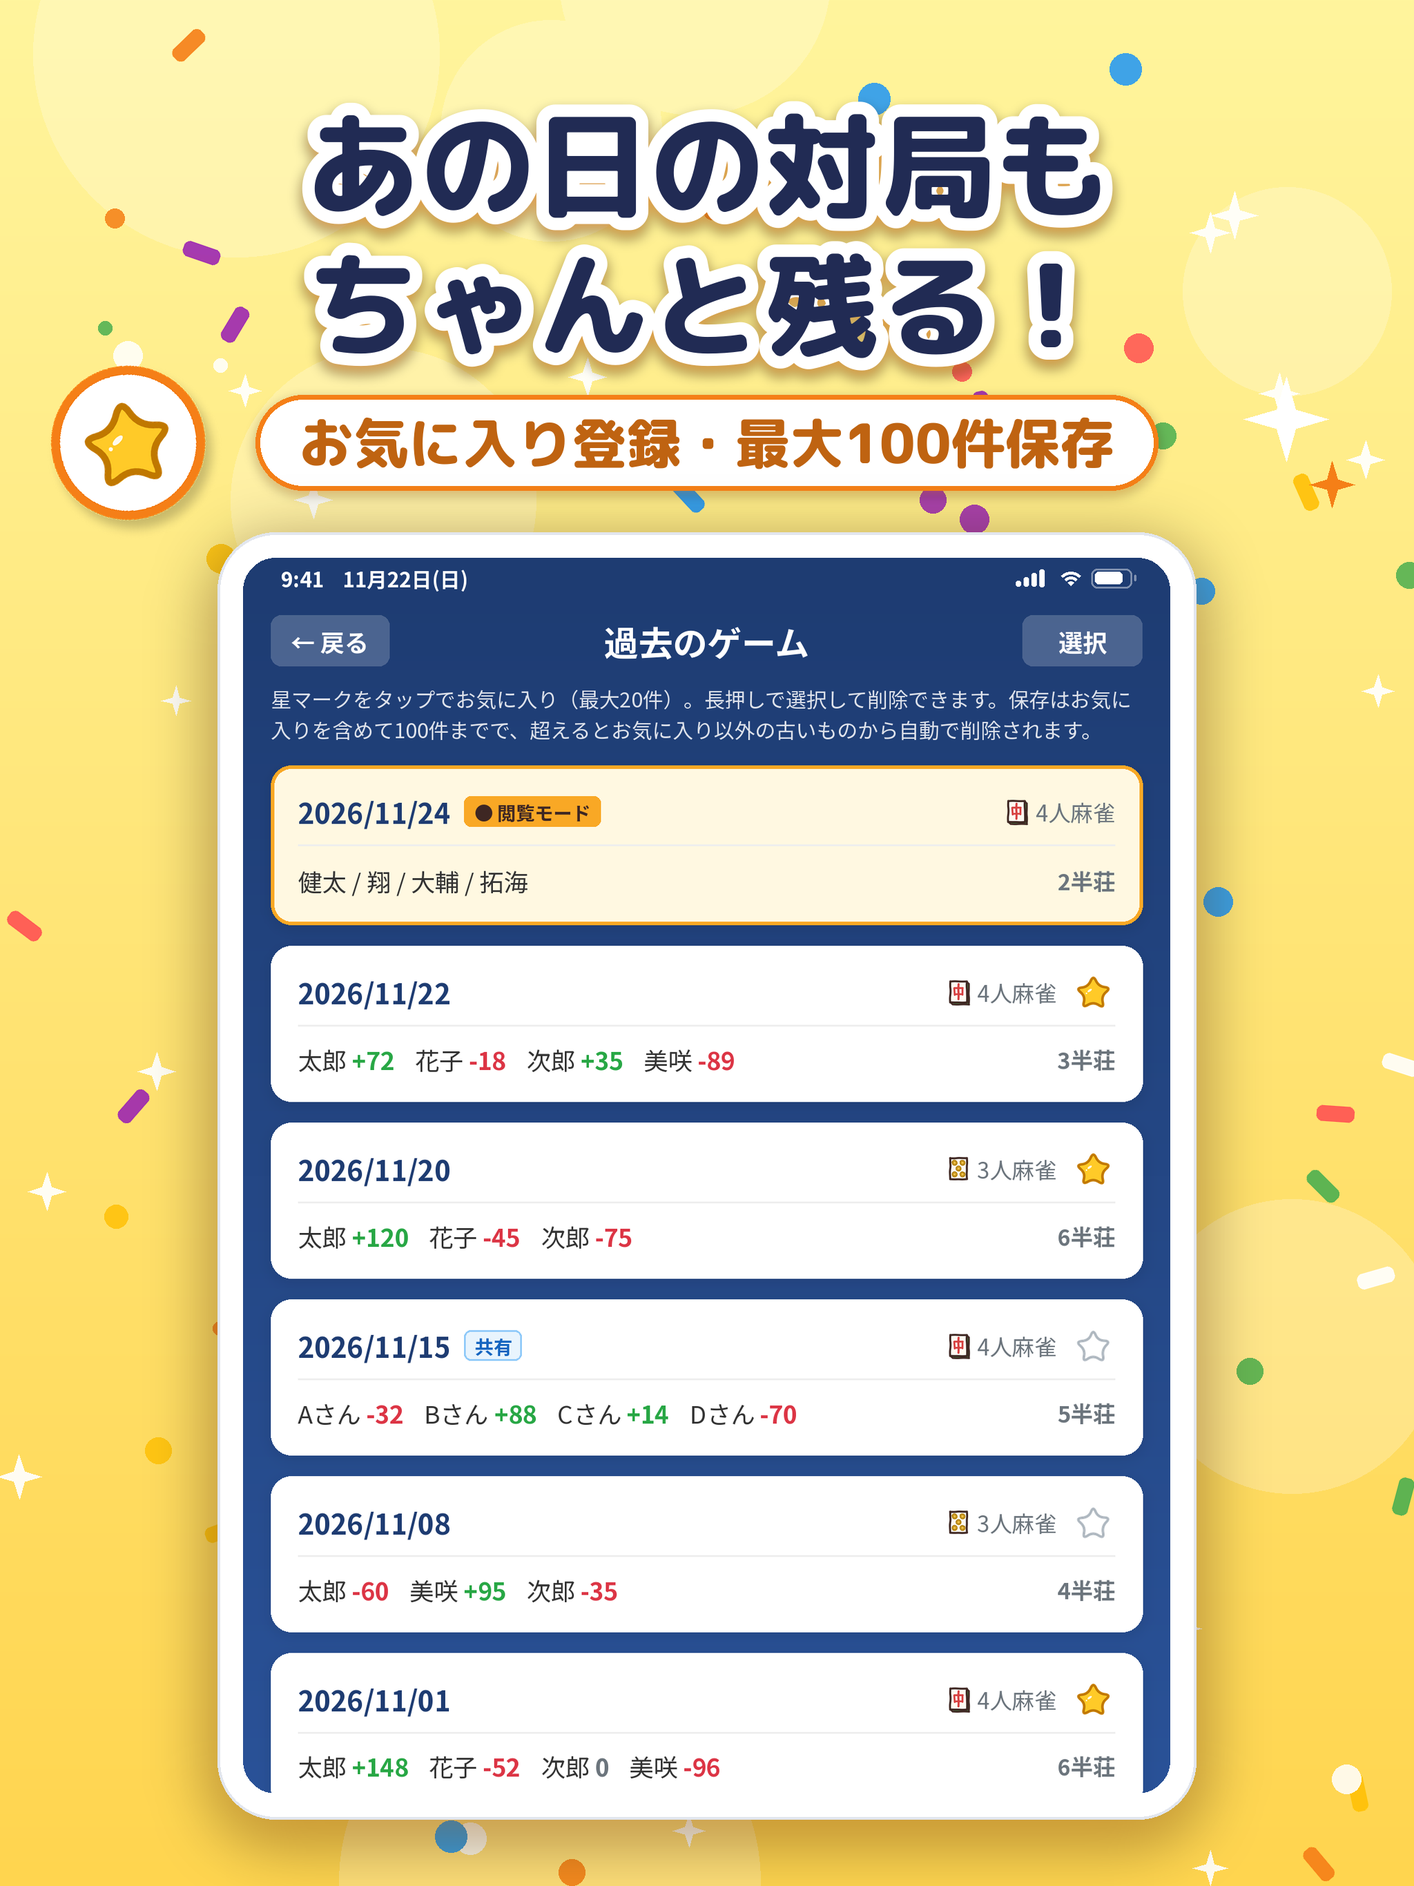
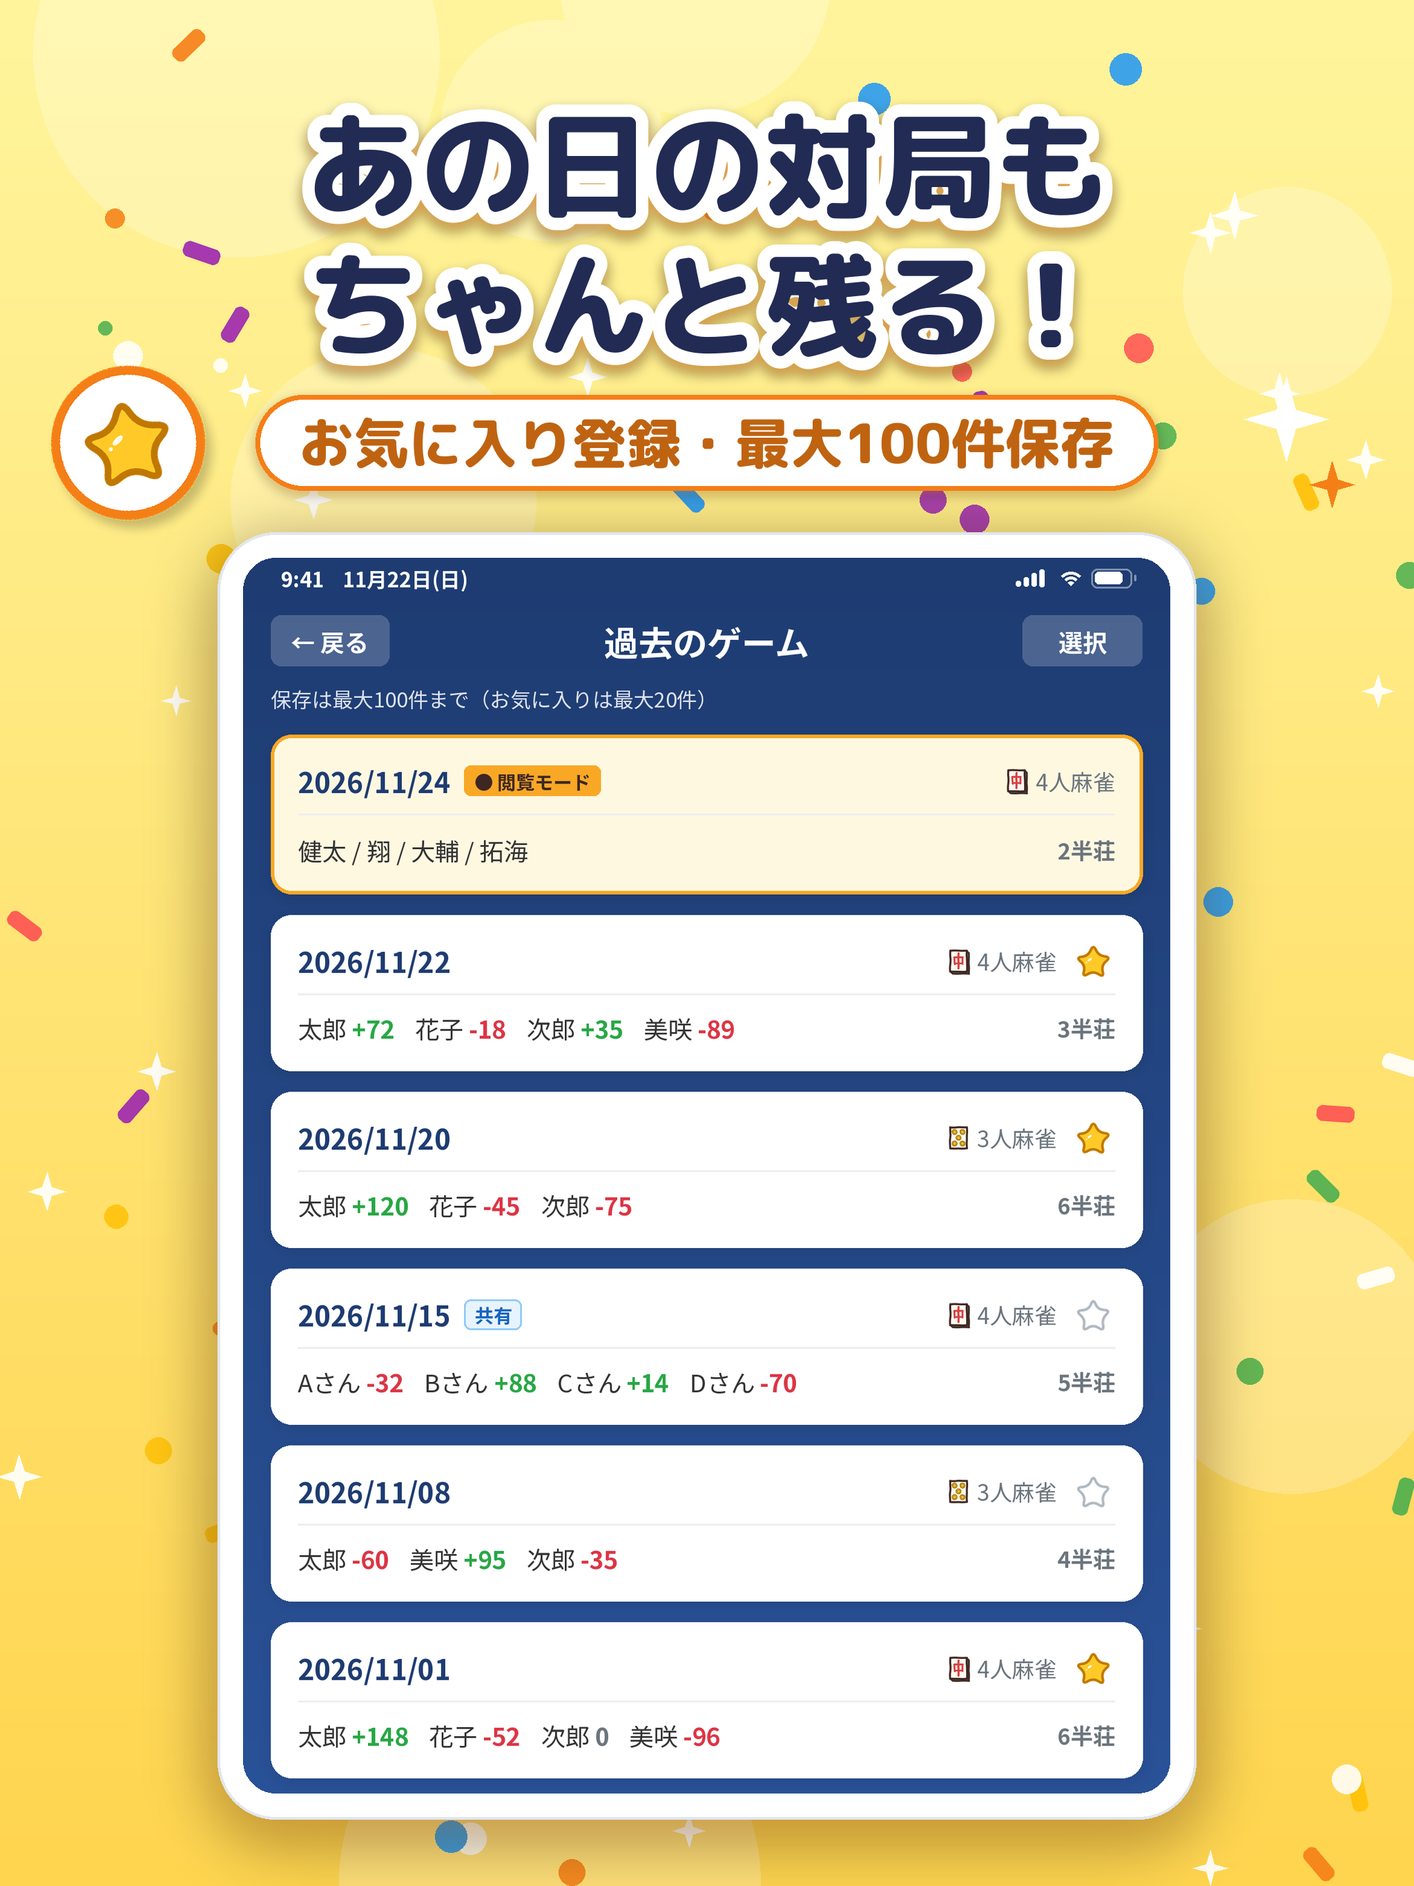
feat: 過去のゲーム一覧の長押し選択を廃止し、説明文を簡潔化、お気に入りに削除不可ワッペンを表示 (#88)
- ゲームカードの長押しで選択モードに入る動作を廃止（入り口は「選択」ボタンのみ）
- 「過去のゲーム」下の説明文を「保存は最大100件まで（お気に入りは最大20件）」の1行に簡潔化
- 選択モード中、お気に入りのカード右上に「お気に入りのため削除不可」のワッペンを斜めに重ねて表示
- 紹介画像 promo_5 (iPhone / iPad) のモックアップ内の説明文を合わせて再生成
- README / 機能定義書を更新

Claude-Session: https://claude.ai/code/session_01QezeZkUEJrijw3p43SySNZ

Changed region(s): [[0.1875, 0.3422, 0.8125, 0.9645]]

diff --git a/screens/PastGamesScreen.tsx b/screens/PastGamesScreen.tsx
@@ -80,8 +80,10 @@ export default function PastGamesScreen({ onSelectGame, onBack, onResumeLiveGame
     setGames(loadGames());
   }, []);
 
-  // 複数選択モード（Issue #74）: 長押しまたは「選択」ボタンで開始し、チェックしたゲームをまとめて削除する。
-  // ホストとして共有中（進行中）のゲーム・お気に入りのゲーム（Issue #78）・閲覧中の対局は選択できない
+  // 複数選択モード（Issue #74）: 「選択」ボタンで開始し、チェックしたゲームをまとめて削除する。
+  // ゲームカードの長押しでは開始しない（Issue #88: 誤操作防止のため長押しでの開始を廃止）。
+  // ホストとして共有中（進行中）のゲーム・お気に入りのゲーム（Issue #78）・閲覧中の対局は選択できない。
+  // お気に入りのゲームには選択モード中「お気に入りのため削除不可」のワッペンを重ねて表示する（Issue #88）
   const [selectionMode, setSelectionMode] = useState(false);
   const [selectedIds, setSelectedIds] = useState<number[]>([]);
   const selectableIds = selectableGameIds(games, liveHostIds);
@@ -98,9 +100,9 @@ export default function PastGamesScreen({ onSelectGame, onBack, onResumeLiveGame
     if (ids.length === 0) setSelectionMode(false);
   }, [selectableKey]);
 
-  const startSelection = (gameId?: number) => {
+  const startSelection = () => {
     setSelectionMode(true);
-    setSelectedIds(gameId === undefined ? [] : [gameId]);
+    setSelectedIds([]);
   };
 
   const exitSelection = () => {
@@ -207,10 +209,11 @@ export default function PastGamesScreen({ onSelectGame, onBack, onResumeLiveGame
         </View>
 
         <ScrollView contentContainerStyle={styles.scrollContent}>
+          {/* 説明文は簡潔な1行だけにする（Issue #88） */}
           <Text style={styles.limitNote}>
             {selectionMode
-              ? '削除するゲームをタップして選んでください。お気に入りは選択できません。'
-              : `星マークをタップでお気に入り（最大${MAX_FAVORITE_GAMES}件）。長押しで選択して削除できます。保存はお気に入りを含めて${MAX_SAVED_GAMES}件までで、超えるとお気に入り以外の古いものから自動で削除されます。`}
+              ? '削除するゲームをタップして選んでください'
+              : `保存は最大${MAX_SAVED_GAMES}件まで（お気に入りは最大${MAX_FAVORITE_GAMES}件）`}
           </Text>
           {/* ゲストとして参加した対局（コード入力なしで閲覧モードに再入室できる: Issue #58）。選択モード中は隠す */}
           {!selectionMode && joinedSessions.map(session => (
@@ -257,86 +260,97 @@ export default function PastGamesScreen({ onSelectGame, onBack, onResumeLiveGame
               // 進行中のゲームとお気に入りのゲーム（Issue #78）はここからは削除させない
               const selectable = isGameSelectable(game, liveHostIds);
               const disabled = selectionMode && !selectable;
+              // 選択モード中のお気に入りには「削除不可」のワッペンを重ねる（Issue #88）
+              const showUndeletableBadge = selectionMode && !isHostLive && game.favorite === 1;
               return (
-                <TouchableOpacity
-                  key={game.id}
-                  style={[
-                    styles.gameCard,
-                    live && styles.gameCardLive,
-                    selected && styles.gameCardSelected,
-                    disabled && styles.gameCardDisabled,
-                  ]}
-                  onPress={() => handlePressGame(game)}
-                  onLongPress={selectionMode || !selectable ? undefined : () => startSelection(game.id)}
-                  delayLongPress={600}
-                  disabled={disabled}
-                  accessibilityRole={selectionMode ? 'checkbox' : 'button'}
-                  accessibilityState={selectionMode ? { checked: selected, disabled } : undefined}
-                >
-                  <View style={styles.gameCardHeader}>
-                    <View style={styles.gameDateRow}>
-                      {selectionMode && (
-                        <View style={[styles.checkbox, selected && styles.checkboxChecked, disabled && styles.checkboxDisabled]}>
-                          {selected && <Text style={styles.checkboxMark}>✓</Text>}
-                        </View>
-                      )}
-                      <Text style={styles.gameDate}>{game.start_date}</Text>
-                      {live && (
-                        <View style={styles.liveBadge}>
-                          <Text style={styles.liveBadgeText}>{isHostLive ? '● 共有中（進行中）' : '● 共有中'}</Text>
-                        </View>
-                      )}
-                      {game.imported === 1 && (
-                        <View style={styles.importedBadge}>
-                          <Text style={styles.importedBadgeText}>共有</Text>
-                        </View>
-                      )}
-                    </View>
-                    <View style={styles.gameTypeRow}>
-                      <GameTypeLabel playerCount={game.player_count} />
-                      {/* お気に入り（終了済みゲームのみ: Issue #60） */}
-                      {!isHostLive && selectionMode && game.favorite === 1 && <StarIcon size={22} filled />}
-                      {!isHostLive && !selectionMode && (
-                        <TouchableOpacity
-                          style={styles.favoriteButton}
-                          onPress={() => handleToggleFavorite(game)}
-                          hitSlop={{ top: 8, bottom: 8, left: 8, right: 8 }}
-                          accessibilityRole="button"
-                          accessibilityLabel={game.favorite === 1 ? 'お気に入りを解除' : 'お気に入りに登録'}
-                        >
-                          <StarIcon size={22} filled={game.favorite === 1} />
-                        </TouchableOpacity>
-                      )}
-                    </View>
-                  </View>
-                  <View style={styles.gameCardBody}>
-                    {/* 終了済みゲームは最終スコア付きで表示（Issue #78）。未終了のゲームは名前のみ */}
-                    {game.finalScores ? (
-                      <View style={styles.finalScoreList}>
-                        {game.finalScores.map((fs, i) => (
-                          <Text key={i} style={styles.finalScoreItem}>
-                            <Text style={styles.finalScoreName}>{fs.playerName} </Text>
-                            <Text
-                              style={[
-                                styles.finalScoreValue,
-                                fs.total > 0 ? styles.scorePositive : fs.total < 0 ? styles.scoreNegative : styles.scoreNeutral,
-                              ]}
-                            >
-                              {formatSignedScore(fs.total)}
-                            </Text>
-                          </Text>
-                        ))}
+                // ワッペンはカードの半透明（disabled）の影響を受けないよう、カードの外側に重ねる
+                <View key={game.id} style={styles.gameCardWrapper}>
+                  <TouchableOpacity
+                    style={[
+                      styles.gameCard,
+                      live && styles.gameCardLive,
+                      selected && styles.gameCardSelected,
+                      disabled && styles.gameCardDisabled,
+                    ]}
+                    onPress={() => handlePressGame(game)}
+                    disabled={disabled}
+                    accessibilityRole={selectionMode ? 'checkbox' : 'button'}
+                    accessibilityState={selectionMode ? { checked: selected, disabled } : undefined}
+                  >
+                    <View style={styles.gameCardHeader}>
+                      <View style={styles.gameDateRow}>
+                        {selectionMode && (
+                          <View style={[styles.checkbox, selected && styles.checkboxChecked, disabled && styles.checkboxDisabled]}>
+                            {selected && <Text style={styles.checkboxMark}>✓</Text>}
+                          </View>
+                        )}
+                        <Text style={styles.gameDate}>{game.start_date}</Text>
+                        {live && (
+                          <View style={styles.liveBadge}>
+                            <Text style={styles.liveBadgeText}>{isHostLive ? '● 共有中（進行中）' : '● 共有中'}</Text>
+                          </View>
+                        )}
+                        {game.imported === 1 && (
+                          <View style={styles.importedBadge}>
+                            <Text style={styles.importedBadgeText}>共有</Text>
+                          </View>
+                        )}
                       </View>
-                    ) : (
-                      <Text style={styles.playerList}>
-                        {game.playerNames.join(' / ')}
+                      <View style={styles.gameTypeRow}>
+                        <GameTypeLabel playerCount={game.player_count} />
+                        {/* お気に入り（終了済みゲームのみ: Issue #60） */}
+                        {!isHostLive && selectionMode && game.favorite === 1 && <StarIcon size={22} filled />}
+                        {!isHostLive && !selectionMode && (
+                          <TouchableOpacity
+                            style={styles.favoriteButton}
+                            onPress={() => handleToggleFavorite(game)}
+                            hitSlop={{ top: 8, bottom: 8, left: 8, right: 8 }}
+                            accessibilityRole="button"
+                            accessibilityLabel={game.favorite === 1 ? 'お気に入りを解除' : 'お気に入りに登録'}
+                          >
+                            <StarIcon size={22} filled={game.favorite === 1} />
+                          </TouchableOpacity>
+                        )}
+                      </View>
+                    </View>
+                    <View style={styles.gameCardBody}>
+                      {/* 終了済みゲームは最終スコア付きで表示（Issue #78）。未終了のゲームは名前のみ */}
+                      {game.finalScores ? (
+                        <View style={styles.finalScoreList}>
+                          {game.finalScores.map((fs, i) => (
+                            <Text key={i} style={styles.finalScoreItem}>
+                              <Text style={styles.finalScoreName}>{fs.playerName} </Text>
+                              <Text
+                                style={[
+                                  styles.finalScoreValue,
+                                  fs.total > 0 ? styles.scorePositive : fs.total < 0 ? styles.scoreNegative : styles.scoreNeutral,
+                                ]}
+                              >
+                                {formatSignedScore(fs.total)}
+                              </Text>
+                            </Text>
+                          ))}
+                        </View>
+                      ) : (
+                        <Text style={styles.playerList}>
+                          {game.playerNames.join(' / ')}
+                        </Text>
+                      )}
+                      <Text style={styles.hanchanInfo}>
+                        {game.hanchanCount}半荘
                       </Text>
-                    )}
-                    <Text style={styles.hanchanInfo}>
-                      {game.hanchanCount}半荘
-                    </Text>
-                  </View>
-                </TouchableOpacity>
+                    </View>
+                  </TouchableOpacity>
+                  {showUndeletableBadge && (
+                    <View
+                      style={styles.undeletableBadge}
+                      pointerEvents="none"
+                      accessibilityLabel="お気に入りのため削除不可"
+                    >
+                      <Text style={styles.undeletableBadgeText}>お気に入りのため削除不可</Text>
+                    </View>
+                  )}
+                </View>
               );
             })
           )}
@@ -507,6 +521,33 @@ const styles = StyleSheet.create({
   emptyText: {
     fontSize: 14,
     color: '#6c757d',
+  },
+  gameCardWrapper: {
+    position: 'relative',
+  },
+  // お気に入りのため削除不可のワッペン（Issue #88）: カードの右上に斜めに貼ったような見た目
+  undeletableBadge: {
+    position: 'absolute',
+    top: -6,
+    right: 10,
+    backgroundColor: '#f9a825',
+    borderWidth: 2,
+    borderColor: '#fff',
+    borderRadius: 14,
+    paddingHorizontal: 10,
+    paddingVertical: 3,
+    transform: [{ rotate: '6deg' }],
+    shadowColor: '#000',
+    shadowOffset: { width: 0, height: 2 },
+    shadowOpacity: 0.25,
+    shadowRadius: 3,
+    elevation: 6,
+    zIndex: 2,
+  },
+  undeletableBadgeText: {
+    fontSize: 11,
+    fontWeight: 'bold',
+    color: '#3e2723',
   },
   gameCard: {
     backgroundColor: '#fff',

diff --git a/generate_assets.py b/generate_assets.py
@@ -1447,8 +1447,8 @@ def generate_promo_past_games(output_path, config=IPHONE):
     x, w = PAD, sc.wdp - 2 * PAD
     y = sc.top + 12
     y = back_header(sc, y, '過去のゲーム', ('選択', WHITE_A(0.2), WHITE), title_size=20, right_min_w=70) + 12
-    note = ('星マークをタップでお気に入り（最大20件）。長押しで選択して削除できます。'
-            '保存はお気に入りを含めて100件までで、超えるとお気に入り以外の古いものから自動で削除されます。')
+    # 説明文は簡潔な1行だけ（Issue #88。PastGamesScreen の limitNote と揃える）
+    note = '保存は最大100件まで（お気に入りは最大20件）'
     y = sc.paragraph(x, y, note, 12, WHITE_A(0.85), w, 18) + 12
     for date, count, names, hanchan, fav, imported, joined, scores in PAST_GAMES:
         ix, iw = x + 16, w - 32

diff --git a/docs/feature-definition.md b/docs/feature-definition.md
@@ -170,7 +170,9 @@
 - 一覧には開始日、麻雀タイプ、プレイヤー名、半荘数を表示する。
 - 共有セッションから履歴に保存したゲームには `共有` バッジを表示する。
 - タップすると読み取り専用の詳細画面を開く。
-- 長押しすると削除確認を表示し、承認後にゲーム一式を削除する。
+- ヘッダーの「選択」ボタンで選択モードに入り、チェックしたゲームをまとめて削除できる（Issue #74）。ゲームカードの長押しでは選択モードに入らない（Issue #88）。
+- 選択モードでは、お気に入りのゲームは選択できず（Issue #78）、カードの右上に「お気に入りのため削除不可」のワッペンを斜めに重ねて表示する（Issue #88）。通常モードでは表示しない。
+- 「過去のゲーム」の見出しの下には「保存は最大100件まで（お気に入りは最大20件）」の1行だけを表示する。選択モード中は「削除するゲームをタップして選んでください」とする（Issue #88）。
 - 終了済みゲームが存在しない場合は空状態メッセージを表示する。
 - 各ゲームの ☆ をタップするとお気に入りに登録・解除できる（Issue #60）。登録済みは ★ で表示する。
 - 一覧の末尾に「保存データをクリア」ボタンを表示する（4.15節）。

diff --git a/README.md b/README.md
@@ -224,7 +224,7 @@ SetupScreen（初期画面）
 ### 6. 過去のゲーム閲覧
 - 終了済みゲームの一覧表示（日付・人数・プレイヤー名・半荘数）
 - タップで読み取り専用モードで詳細表示
-- 長押しでゲーム削除
+- 「選択」ボタンで複数選択してまとめて削除（お気に入りは「お気に入りのため削除不可」と表示され選択不可）
 - ゲストとして閲覧した対局（有効期限内）も一覧に表示され、コード入力なしで閲覧モードに再入室できる
 - ☆ でお気に入り登録（最大20件。上限に達しているときは「お気に入りは最大20件です」と表示して登録しない）
 - お気に入りを含めて合計最大100件まで保存し、超えたらお気に入り以外の古いものから自動削除（お気に入りは削除対象外）
